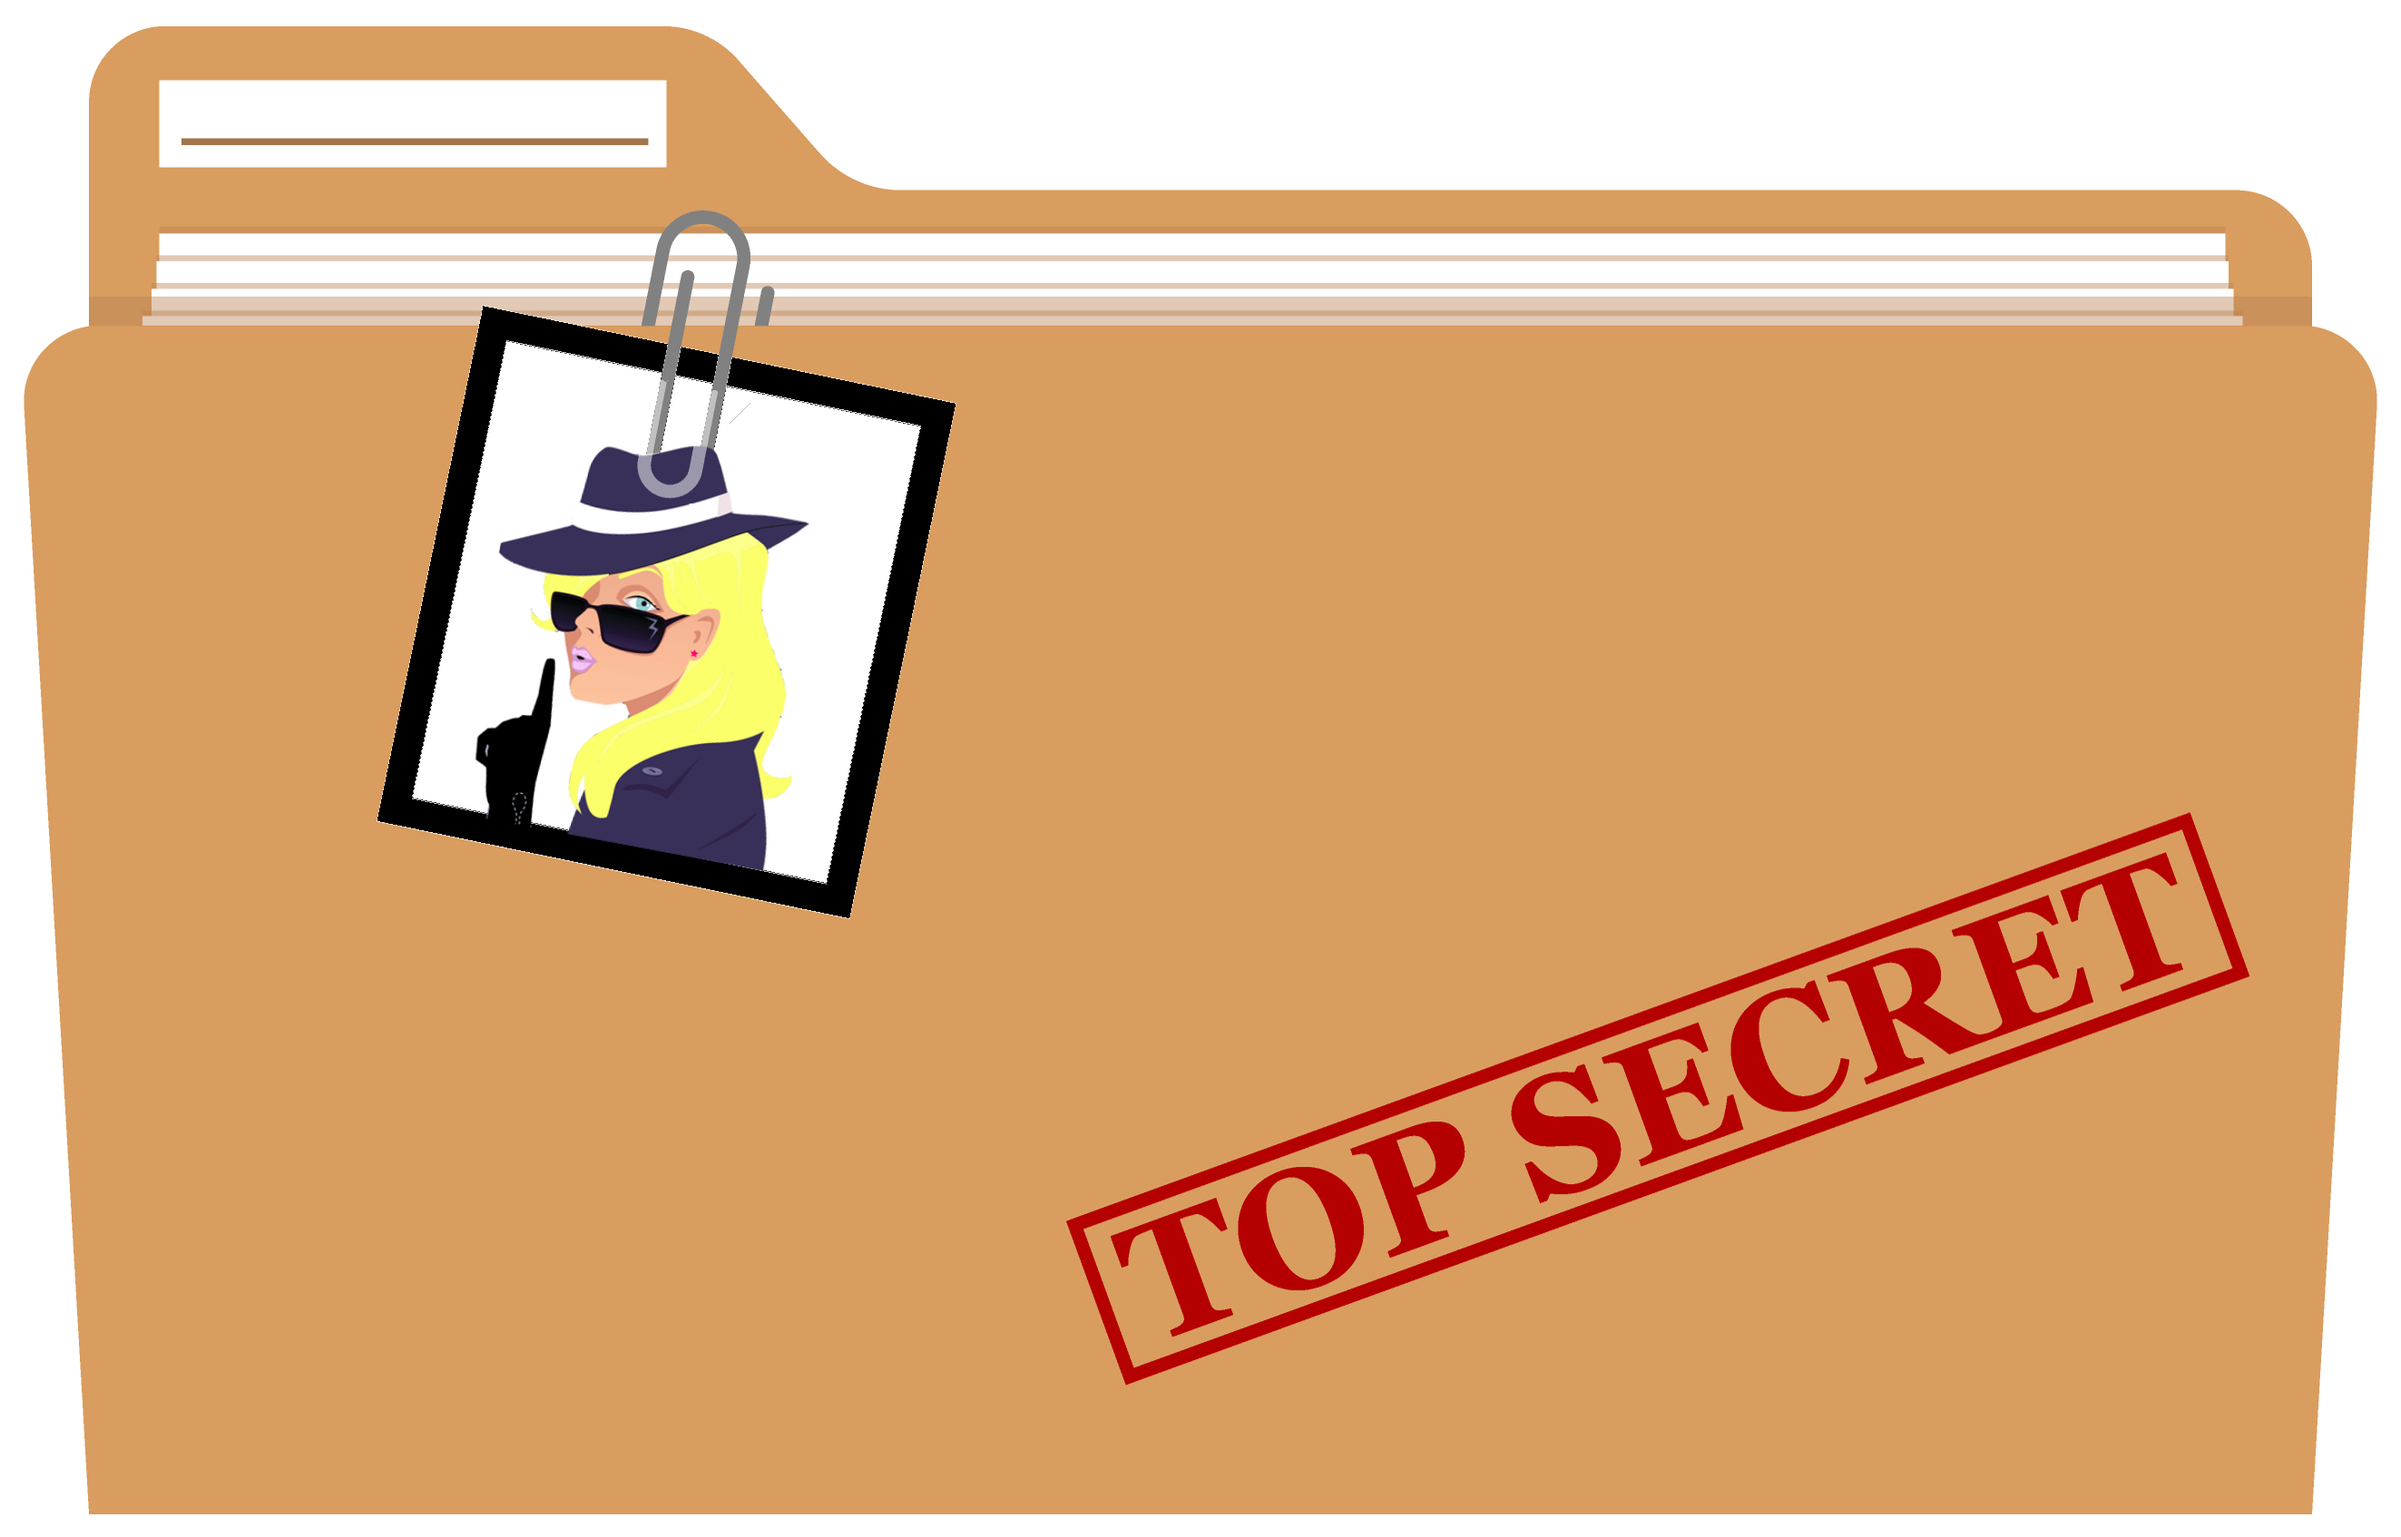
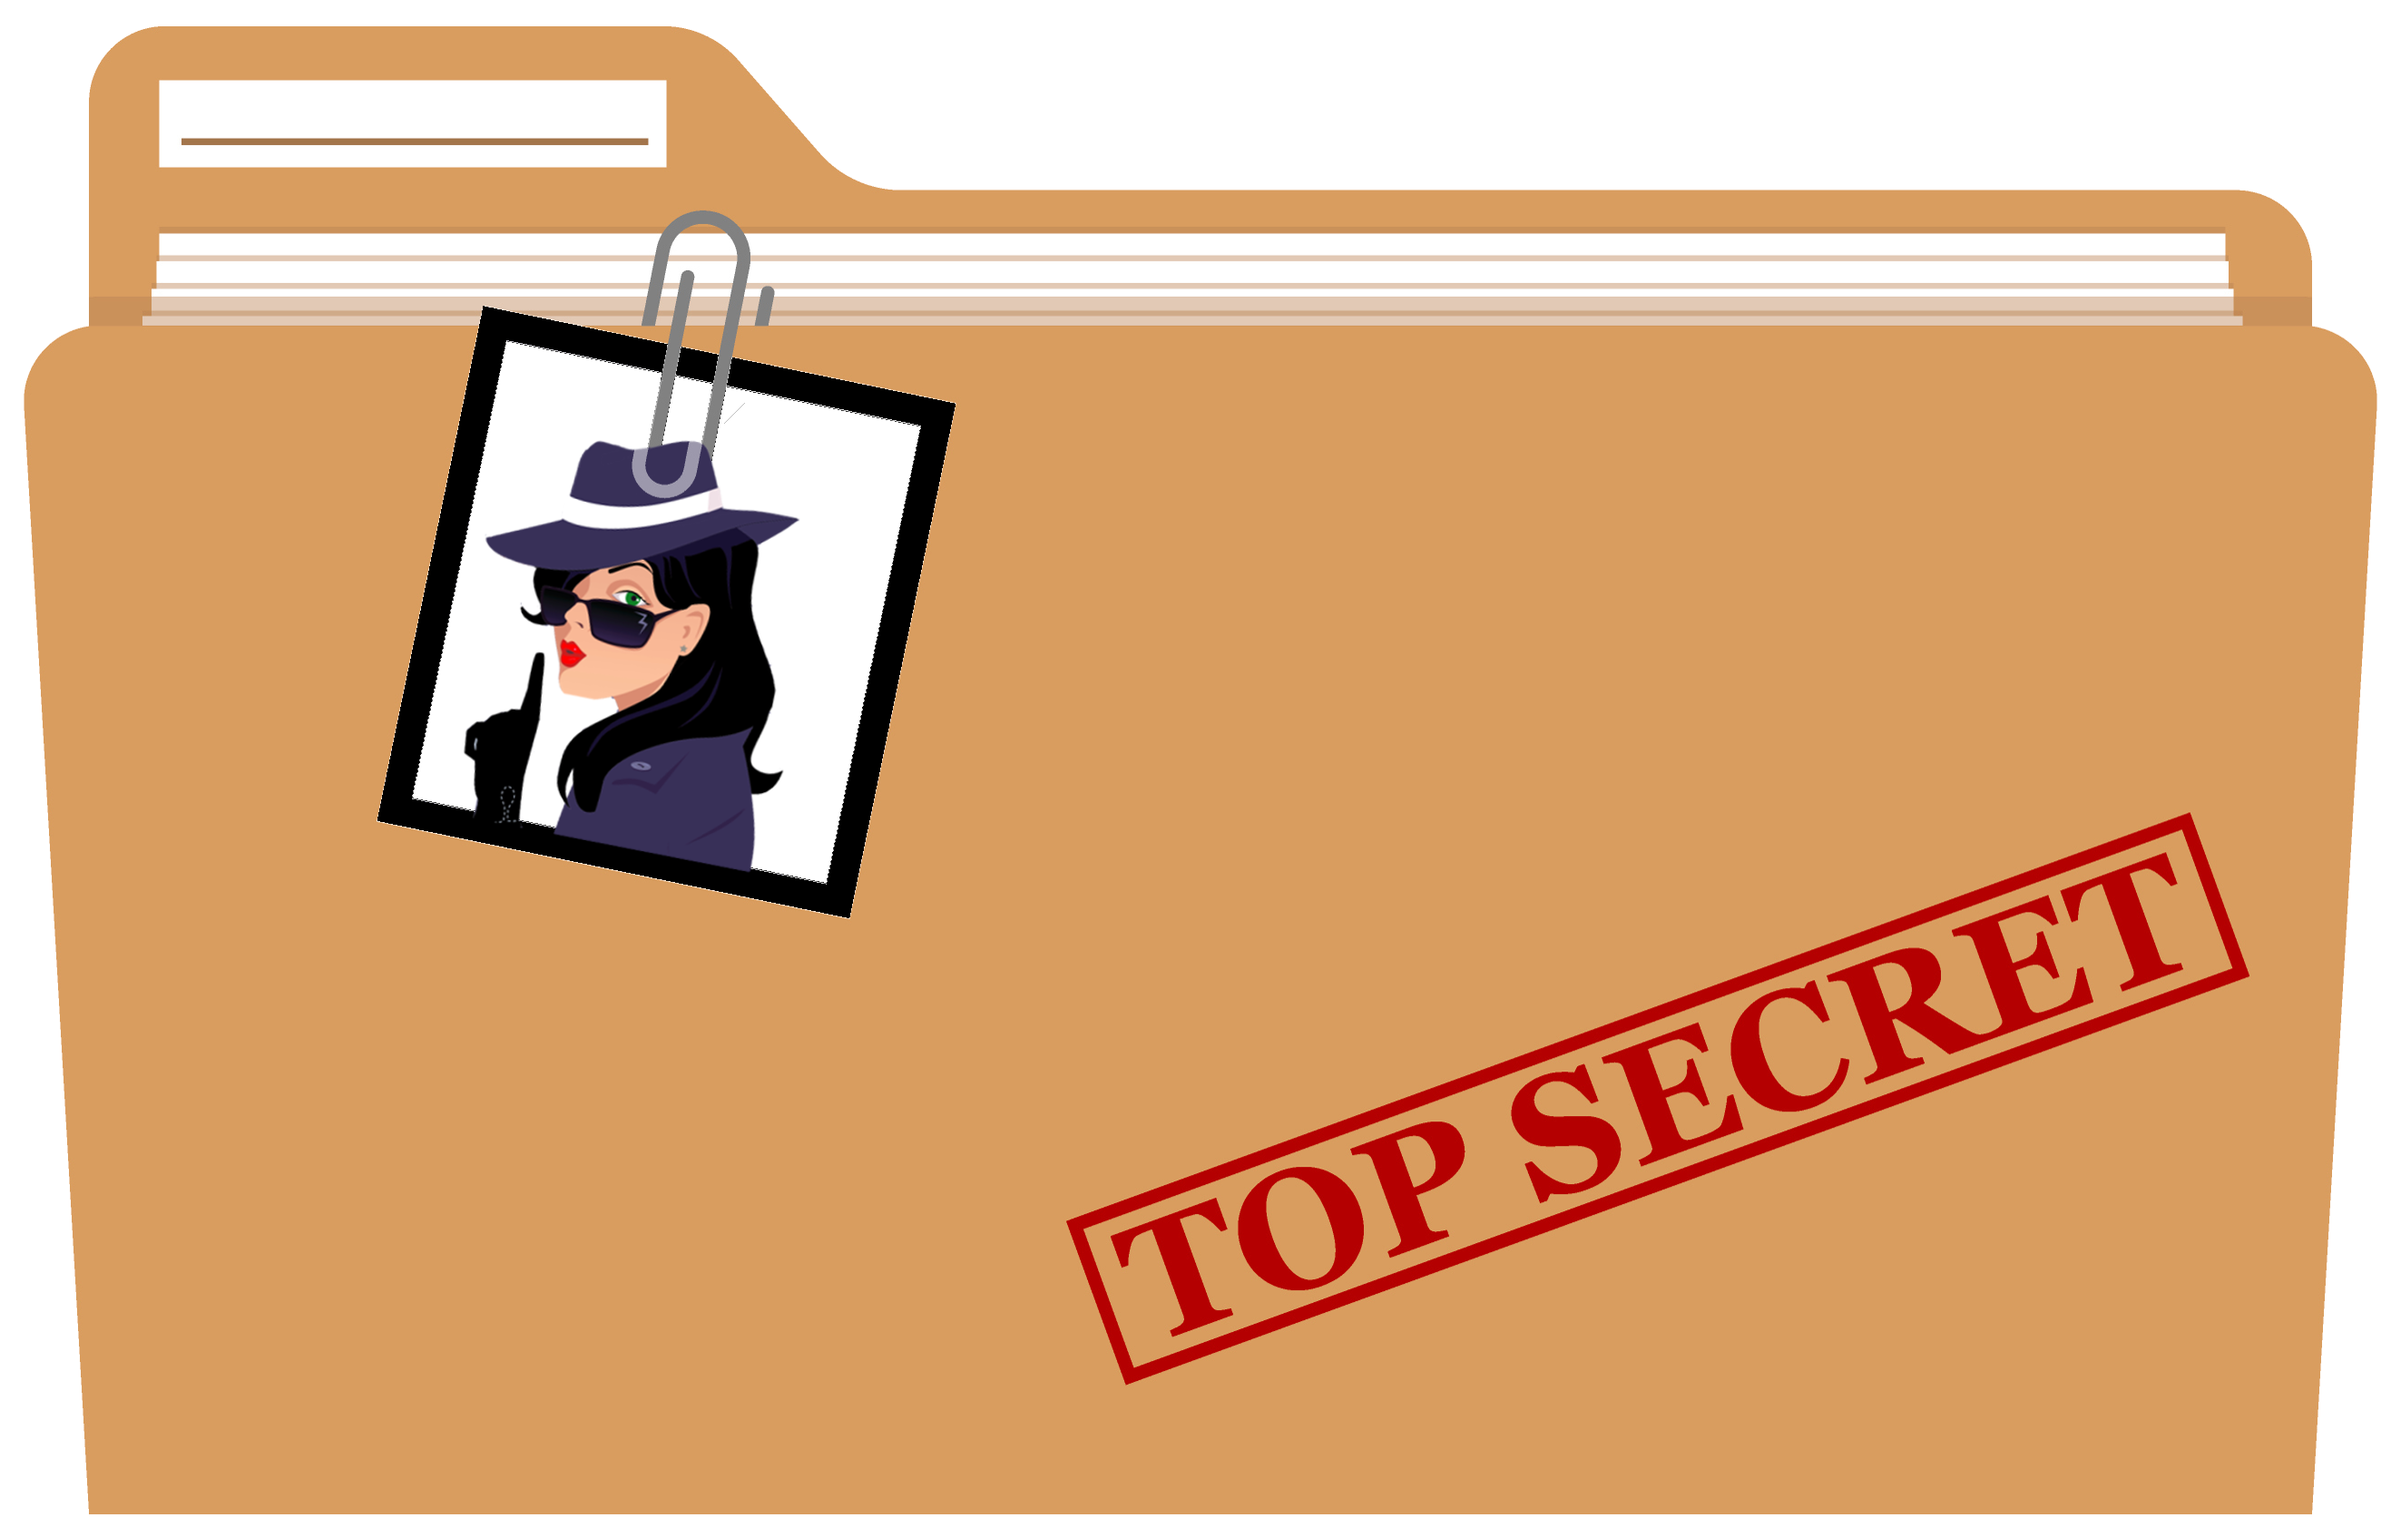
New Round Commit
Finished folder assets and added new folder round to game. Is now round three.

Changed region(s): [[0.1859, 0.2763, 0.3409, 0.5525]]

diff --git a/js/states/Preload.js b/js/states/Preload.js
@@ -22,6 +22,19 @@ Locator.PreloadState = {
                              ['usb', 'assets/images/usb.png'],
                              ['usbYellow', 'assets/images/usbYellow.png'],
                              //['bullet', 'assets/images/bullet.png'],
+                             ['folder', 'assets/images/folder.png'],
+                             ['folderLB', 'assets/images/folderLBSmall.png'],
+                             ['folderLBL', 'assets/images/folderLBLSmall.png'],
+                             ['folderLBR', 'assets/images/folderLBRSmall.png'],
+                             ['folderLR', 'assets/images/folderLRSmall.png'],
+                             ['folderLW', 'assets/images/folderLWSmall.png'],
+                             ['folderMB', 'assets/images/folderMBSmall.png'],
+                             ['folderMBL', 'assets/images/folderMBLSmall.png'],
+                             ['folderMBR', 'assets/images/folderMBRSmall.png'],
+                             ['folderMG', 'assets/images/folderMGSmall.png'],
+                             ['folderMR', 'assets/images/folderMRSmall.png'],
+                             ['folderMW', 'assets/images/folderMWSmall.png'],
+                             //['bullet', 'assets/images/bullet.png'],
                              ['blondeF', 'assets/images/ladyBlondeSmall.png'],
                              ['whiteF', 'assets/images/ladyWhiteSmall.png'],
                              ['brownF', 'assets/images/ladyBrownSmall.png'],
@@ -45,6 +58,7 @@ Locator.PreloadState = {
                              ['passportImage', 'assets/images/passportImage.png'],
                              ['gunImage', 'assets/images/gunImage.png'],
                              ['fingerprintImage', 'assets/images/fingerprintImage.png'],
+                             ['folderImage', 'assets/images/folderImage.png'],
                              ['prison', 'assets/images/prison.png'],
                              ['prisonMale', 'assets/images/prisonMale.png'],
                              ['prisonFemale', 'assets/images/prisonFemale.png'],
@@ -53,6 +67,8 @@ Locator.PreloadState = {
 	                    ],
             'spritesheet': [
                             ['gunSprite', 'assets/images/gunSprite.png', 52, 39, 5],
+                            ['folderSpriteLady', 'assets/images/folderSpriteLady.png', 50, 32, 3],
+                            ['folderSpriteMan', 'assets/images/folderSpriteMan.png', 50, 32, 3],
 	                       ],
             'audio': [
 		                    //['boing', ['assets/audio/boing.mp3', 'assets/audio/boing.ogg']],

diff --git a/js/states/Game.js b/js/states/Game.js
@@ -68,7 +68,7 @@ Locator.GameState = {
                         this.moving = true;
                         if(gameData.rounds[this.currRound].locateFunction == 'spritesheet')
                         {
-                            this.spritesheetTransition(gameData.rounds[this.currRound].params, button);
+                            this.spritesheetTransition(gameData.rounds[this.currRound].params[Locator.gender], button);
                         }
                         else if(gameData.rounds[this.currRound].locateFunction == 'colour')
                         {
@@ -127,7 +127,7 @@ Locator.GameState = {
     },
     rotateTransition: function(button)
     {
-        var tween = this.add.tween(button).to( { rotation: this.gameData.rounds[this.currRound].params}, 200, Phaser.Easing.Bounce.Out, true);
+        var tween = this.add.tween(button).to( { rotation: this.gameData.rounds[this.currRound].params[Locator.gender]}, 200, Phaser.Easing.Bounce.Out, true);
         tween.onComplete.add(function(button)
         {
             button.rotation = 0;
